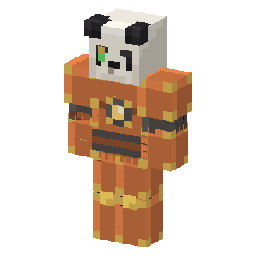
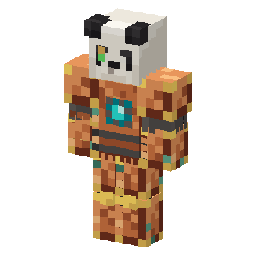
[ADD] besacraft_vestiaire: Zoe's outfits and armour, given to her account only
Also refreshes the thumbnails of PAO's armour and helmet, now visored.

Changed region(s): [[0.25, 0.2188, 0.75, 0.9688]]

diff --git a/besacraft_vestiaire/__manifest__.py b/besacraft_vestiaire/__manifest__.py
@@ -19,6 +19,7 @@
         "data/vestiaire_catalogue_v50.xml",
         "data/vestiaire_catalogue_pao.xml",
         "data/vestiaire_catalogue_christine.xml",
+        "data/vestiaire_catalogue_zoe.xml",
         "wizards/vestiaire_offrir_views.xml",
         "views/vestiaire_skin_views.xml",
         "views/vestiaire_joueur_views.xml",
